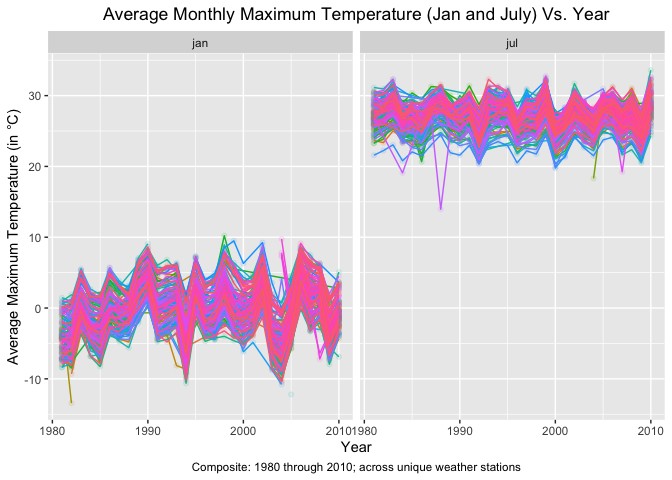
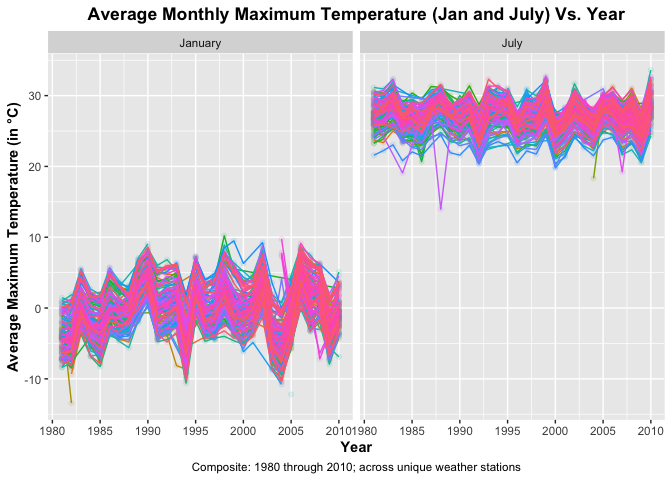
currently done with 3.2!

diff --git a/p8105_hw3_td2749.md b/p8105_hw3_td2749.md
@@ -249,11 +249,13 @@ ny_noaa_df %>%
   summarize(mean_monthly_tmax = mean(tmax_c, na.rm = TRUE)) %>% 
   mutate(
     month = as.character(month),
-    month = recode(month, "1" = "jan", "7" = "jul")) %>% 
+    month = recode(month, "1" = "January", "7" = "July")) %>% 
   drop_na(mean_monthly_tmax) %>% 
   ggplot(aes(x = year, y = mean_monthly_tmax, group = id, color = id)) + 
     geom_point(alpha = .1) +
     geom_line() + 
+    scale_x_continuous(
+      breaks = c(1980, 1985, 1990, 1995, 2000, 2005, 2010)) +
     facet_grid(. ~ month) +
     labs(title = "Average Monthly Maximum Temperature (Jan and July) Vs. Year",
        x = "Year",
@@ -261,8 +263,9 @@ ny_noaa_df %>%
        caption = "Composite: 1980 through 2010; across unique weather stations") +
     theme(
       legend.position = "none",
-      plot.title = element_text(hjust = 0.5),
-      plot.caption = element_text(hjust = 0.5))
+      plot.title = element_text(hjust = 0.5, face = "bold"),
+      plot.caption = element_text(hjust = 0.5),
+      axis.title = element_text(face = "bold"))
 ```
 
     ## `summarise()` has grouped output by 'id', 'year'. You can override using the
